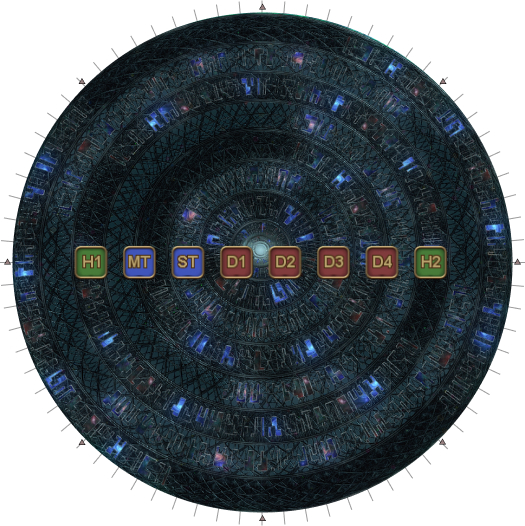
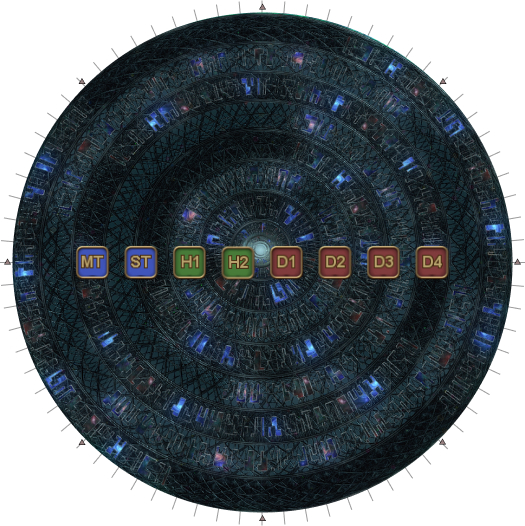
Add transition lineup

Changed region(s): [[0.1219, 0.4563, 0.8533, 0.5475]]

diff --git a/ultimates/top/03_omega_reconfigured.en.md b/ultimates/top/03_omega_reconfigured.en.md
@@ -69,7 +69,14 @@ This is the only phase in the fight with a transition mechanic.
 <table>
   <tr>
     <td>
-      <p><b>1.</b> Debuffs appear.</p>
+      <p><b>1.</b> Line up horizontally.</p>
+      <p>All players will need shields to survive the transition.</p>
+    </td>
+    <td><img src="{{site.baseurl}}/assets/images/ultimates/top/03/transition_01.jpg"></td>
+  </tr>
+  <tr>
+    <td>
+      <p><b>2.</b> Debuffs appear.</p>
       <ul>
         <li><b>High-powered Sniper Cannon Fodders:</b> Pair up with a player
         with no debuffs north.</li>
@@ -81,7 +88,7 @@ This is the only phase in the fight with a transition mechanic.
   </tr>
   <tr>
     <td>
-      <p><b>2.</b> First pulse of an expanding Wave Repeater AoE goes off.</p>
+      <p><b>3.</b> First pulse of an expanding Wave Repeater AoE goes off.</p>
       <p>Three arms will appear around the arena, 120 degrees from one another.</p>
       <p><b>Note where these first set of arms are.</b></p>
     </td>
@@ -89,14 +96,14 @@ This is the only phase in the fight with a transition mechanic.
   </tr>
   <tr>
     <td>
-      <p><b>3.</b> Second pulse goes off.</p>
+      <p><b>4.</b> Second pulse goes off.</p>
       <p>The second set of arms will appear around the arena.</p>
     </td>
     <td><img src="{{site.baseurl}}/assets/images/ultimates/top/03/transition_04.jpg"></td>
   </tr>
   <tr>
     <td>
-      <p><b>4.</b> Third pulse goes off.</p>
+      <p><b>5.</b> Third pulse goes off.</p>
       <div style="background-color: #200 ; padding: 10px; border: 1px solid;">
       <b>Note:</b> The Wave Repeater AoE boundaries <b>do not</b> follow the rings on the floor.</div>
     </td>
@@ -106,7 +113,7 @@ This is the only phase in the fight with a transition mechanic.
   </tr>
   <tr>
     <td>
-      <p><b>5.</b> Fourth pulse goes off.</p>
+      <p><b>6.</b> Fourth pulse goes off.</p>
       <p>At this point, all players should be in position for the second wave
       of mechanics.</p>
     </td>
@@ -116,7 +123,7 @@ This is the only phase in the fight with a transition mechanic.
   </tr>
   <tr>
     <td>
-      <p><b>6.</b> First pulse of the second wave goes off.</p>
+      <p><b>7.</b> First pulse of the second wave goes off.</p>
     </td>
     <td>
       <img src="{{site.baseurl}}/assets/images/ultimates/top/03/transition_07.jpg">
@@ -124,7 +131,7 @@ This is the only phase in the fight with a transition mechanic.
   </tr>
   <tr>
     <td>
-      <p><b>7.</b> Second pulse of the second wave goes off.</p>
+      <p><b>8.</b> Second pulse of the second wave goes off.</p>
       <p>The first set of arms will telegraph an AoE around them.</p>
     </td>
     <td>
@@ -133,7 +140,7 @@ This is the only phase in the fight with a transition mechanic.
   </tr>
   <tr>
     <td>
-      <p><b>8.</b> Third pulse of the second wave goes off.</p>
+      <p><b>9.</b> Third pulse of the second wave goes off.</p>
       <p>The first set of arms explode, while the second set of arms telegraph
       their explosion.</p>
       <p><b>Move into the intersection of the expanding pulse and the first set
@@ -145,7 +152,7 @@ This is the only phase in the fight with a transition mechanic.
   </tr>
   <tr>
     <td>
-      <p><b>9.</b> Player debuffs resolve along with the second set of arm's
+      <p><b>10.</b> Player debuffs resolve along with the second set of arm's
       AoE.</p>
     </td>
     <td>
